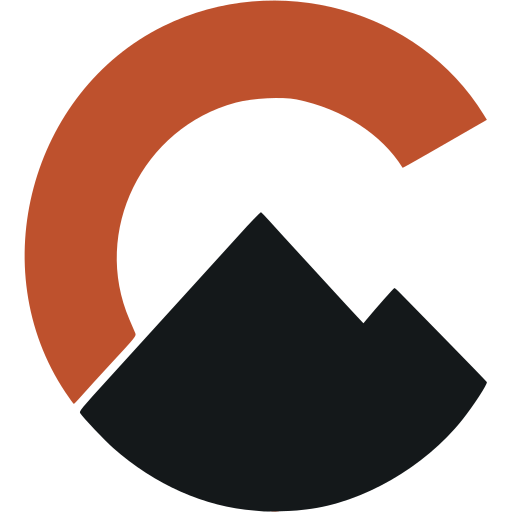
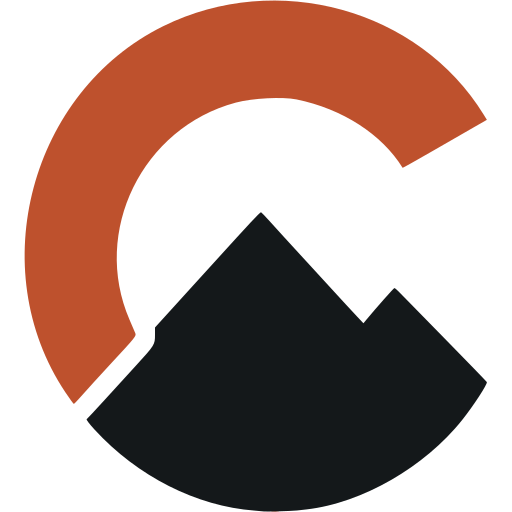
Pull the mountain 20 px clear of the C, so one ink still reads as two shapes
In art/favicon.png the two halves TOUCH: 248 adjacent pixels, and a narrowest
separation of 2 px in a 512 frame, which is 0.06 of a device pixel at 16. In
colour that is invisible as a problem, because orange beside black is two
shapes whatever the gap is. In one ink it is a single blob -- an engraving, a
stamp, a service that flattens an avatar -- which is the case Kyle raised.
Measured on the shipped SVG the two are now 17 px apart at their closest.

DONE AT TRACE TIME, NOT BY EDITING AN SVG. A hand-edited path would be
overwritten by the next trace_logo.py run, and re-drawing art/favicon.png
risks exactly the geometry drift the disc work was careful to avoid. So it is
a `gap` key on the FAVICON spec plus widen_gap(), which means the PNG is still
the source of record and every one of the five outputs regenerates from it.

NOT A UNIFORM EROSION, and that is the whole of widen_gap(). Shrinking the
mountain everywhere would pull its base off the outer circle and the mark
would stop being a disc. Only rock within k of the sun goes, so the peaks, the
ridges and the base arc are bit-for-bit unchanged and the silhouette holds.
The measured cost is 1.8% of the mountain, all of it on the edge that was
touching -- and the disc's placement is unmoved, since the sun still sets the
circumscribed circle (r=255.9 at 273.1,255.8, same as before).

It despeckles the sun mask first, which is not tidiness. classify() assigns
[…]

Changed region(s): [[0.1562, 0.625, 0.3125, 0.8438]]

diff --git a/tools/trace_logo.py b/tools/trace_logo.py
@@ -53,6 +53,11 @@ try:
 except ImportError:
     sys.exit("needs potracer (pure-python potrace): python -m pip install potracer")
 
+try:
+    from scipy import ndimage
+except ImportError:                                     # only widen_gap needs it
+    ndimage = None
+
 sys.path.insert(0, os.path.dirname(os.path.abspath(__file__)))
 import palette                                          # noqa: E402
 
@@ -82,6 +87,57 @@ def classify(rgba, layers):
     nearest = d.argmin(axis=2)
     return {name: (nearest == i) & (alpha > 128)
             for i, (name, _, _) in enumerate(layers)}
+
+
+def widen_gap(masks, shrink, against, k, despeckle=500):
+    """Cut `shrink` back by k px wherever it comes near `against`.
+
+    WHY THE MARK NEEDS THIS AT ALL. In art/favicon.png the mountain and the C
+    are two pixels apart at their closest and touch outright over 248 pixels,
+    measured 2026-09-02. In colour that reads fine, because orange beside black
+    is two shapes whatever the gap is. In ONE ink it is a single blob, and that
+    is the case this exists for: a monochrome mark, a fax-grade print, an
+    engraving, a service that flattens an avatar. Kyle asked for the channel to
+    be wider so the two halves stay two halves.
+
+    IT IS NOT A UNIFORM EROSION, and that distinction is the whole function.
+    Shrinking the mountain everywhere would pull its base off the outer circle
+    and the mark would stop being a disc. Only rock within k of the orange goes,
+    so the peaks, the ridges and the base arc are bit-for-bit what they were and
+    the silhouette is unchanged. At k=20 that costs 1.8% of the mountain, all of
+    it along the one edge nobody could see anyway.
+
+    IT DESPECKLES `against` FIRST, and skipping that is a real bug rather than
+    tidiness. classify() assigns each pixel to the nearest source colour, and a
+    mid-grey anti-aliased pixel on the BLACK/WHITE edge is nearer to the orange
+    (190,81,45) than to white or ink -- so the raw sun mask carries 63 stray
+    specks strewn along the mountain's own ridge. Measure distance to those and
+    the erosion nibbles the ridge everywhere, which is exactly what the first
+    attempt produced. potrace hides the same specks after the fact with
+    turdsize; this runs before it, so it has to clear them itself.
+    """
+    if not k:
+        return masks
+    if ndimage is None:
+        sys.exit("widening the gap needs scipy: python -m pip install scipy")
+
+    lab, n = ndimage.label(masks[against])
+    if n:
+        keep = [i for i in range(1, n + 1) if (lab == i).sum() >= despeckle]
+        solid = np.isin(lab, keep)
+    else:
+        solid = masks[against]
+
+    before = masks[shrink].sum()
+    d = ndimage.distance_transform_edt(~solid)
+    out = dict(masks)
+    out[shrink] = masks[shrink] & (d >= k)
+    print("    gap     %s pulled %d px clear of %s: %d px removed (%.1f%%), "
+          "%d of %d %s specks dropped first"
+          % (shrink, k, against, before - out[shrink].sum(),
+             100.0 * (before - out[shrink].sum()) / max(1, before),
+             n - len(keep) if n else 0, n, against))
+    return out
 
 
 # --------------------------------------------------------------- preparing --
@@ -333,10 +389,19 @@ def load(spec):
     return np.asarray(im), w, h
 
 
-def build(spec, check_only=False):
+def build(spec, check_only=False, gap=None):
     rgba, w, h = load(spec)
     masks = classify(rgba, spec["layers"])
     print("  %-13s %dx%d" % (spec["src"], w, h))
+
+    # `gap: (shrink, against, k)` -- see widen_gap(). k is in the pixels of THIS
+    # spec's own frame, which `width` states, so it does not silently mean
+    # something different in a drawing of another size. --gap on the command
+    # line overrides it, which is how a different value gets tried without
+    # editing anything.
+    if spec.get("gap"):
+        shrink, against, k = spec["gap"]
+        masks = widen_gap(masks, shrink, against, k if gap is None else gap)
 
     # Trace ONCE per layer. The variants differ only in which token a layer is
     # painted with, and tracing the same mask twice would be the same work for
@@ -691,6 +756,18 @@ FAVICON = dict(
         ("sun",   FAVICON_SUN,      "alpenglow"),
         ("rock",  ( 21,  21,  21),  "ink"),
     ],
+    # A REAL WHITE CHANNEL BETWEEN THE TWO HALVES (Kyle, 2026-09-02). In the
+    # drawing they touch: 248 pixels of the mountain are adjacent to the C and
+    # the narrowest separation is 2 px in this 512 frame, which is 0.06 of a
+    # device pixel at 16 px. Colour carried it; one ink does not, and a
+    # monochrome mark is the case this was raised for.
+    #
+    # 20 px here, chosen from renders in ONE INK at 16, 24, 32 and 48 px: it is
+    # the smallest value whose seam is unambiguous by 24 px. Nothing separates
+    # at 16 px in one colour, at any k, so there was no point paying more
+    # mountain for it. It costs 1.8% of the rock, entirely along the edge that
+    # was touching. See widen_gap() for why this is not a uniform erosion.
+    gap=("rock", "sun", 20),
     # FOUR FILES, ONE TRACE. Two axes, and they are independent: whether the
     # mark carries its own ground (a tab strip: yes; a slide: no), and which
     # way round the mountain is (on paper: ink; on ink: paper). Every one of
@@ -722,12 +799,20 @@ def main():
     ap = argparse.ArgumentParser()
     ap.add_argument("--check", action="store_true",
                     help="report the fit and write nothing")
+    # VARY THE CHANNEL BY FLAG, NOT BY EDITING THE SPEC. Trying a value should
+    # not mean a diff, and comparing two should not mean remembering to put the
+    # first one back. Pair it with --check to look without writing.
+    ap.add_argument("--gap", type=int, default=None, metavar="PX",
+                    help="override the white channel between the mark's two "
+                         "halves, in source pixels (spec default: %d). 0 to "
+                         "restore the drawing as it was traced."
+                         % FAVICON["gap"][2])
     a = ap.parse_args()
 
     print("trace_logo.py  (palette from assets/css/style.css: %s)"
           % ", ".join("%s %s" % (t, palette.hexof(t))
                       for t in ("alpenglow", "ink", "paper")))
-    worst = max(build(s, check_only=a.check) for s in SOURCES)
+    worst = max(build(s, check_only=a.check, gap=a.gap) for s in SOURCES)
 
     print()
     print("worst layer disagrees with its source on %.2f%% of pixels "

diff --git a/README.md b/README.md
@@ -402,6 +402,26 @@ over HTTP. Same reason `docs/` and `tools/` are not in there.
 | `favicon-disc-512.png` | `favicon-disc.svg` | the 512 master of the disc variant — what to upload where a service wants a PNG and will put it on dark chrome |
 | `social-default.png` | `favicon.svg` | the link preview, written by `tools/make_social.py` |
 
+**The mark's two halves are pulled apart at trace time, not in the drawing.**
+In `art/favicon.png` the mountain and the C touch: 248 adjacent pixels, and a
+narrowest separation of 2 px in a 512 frame, which is 0.06 of a device pixel at
+16 px. Colour hides that — orange beside black is two shapes whatever the gap
+is — but **one ink makes it a single blob**, and a monochrome mark is a case the
+club will hit (an engraving, a stamp, a service that flattens an avatar). So the
+`gap` key on the FAVICON spec erodes the mountain 20 px clear of the C before
+potrace runs, and `widen_gap()` does it *only near the orange*: a uniform
+erosion would pull the base off the outer circle and the mark would stop being a
+disc, whereas this leaves the peaks, the ridges and the base arc bit-for-bit
+what they were, at a cost of **1.8 % of the mountain**. Measured on the shipped
+SVG, the two halves are now **17 px apart at their closest**. 20 was chosen from
+renders in one ink at 16, 24, 32 and 48 px: it is the smallest value whose seam
+is unambiguous by 24 px, and nothing separates at 16 px in one colour at any
+value, so there was no point paying more mountain for it. Vary it with
+`python tools/trace_logo.py --gap N --check`; `--gap 0` restores the drawing as
+drawn. **The lockup is untouched** — `art/logo.png` is a different composition
+that already has the separation, and its `figure` layer is the wordmark, so the
+same erosion there would eat letterform spacing.
+
 **The light and dark logos are one trace, not two drawings.** `trace_logo.py`
 traces the artwork once and writes it twice, swapping a single token, so the
 pair cannot disagree with each other. `currentColor` would be the obvious
